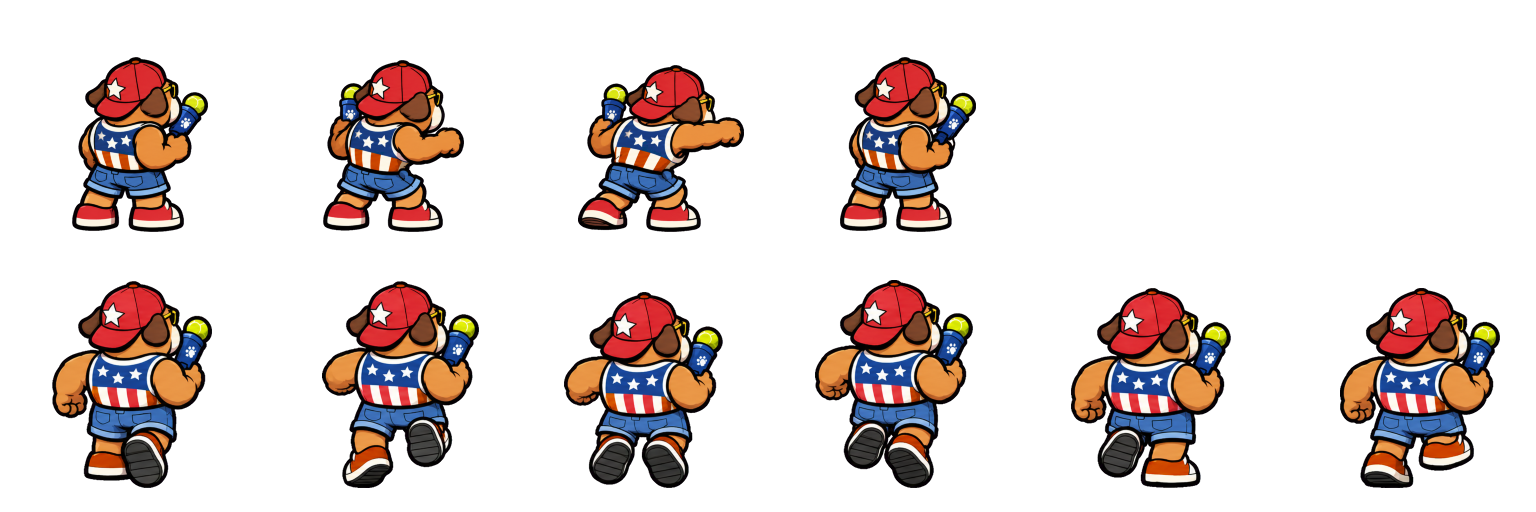
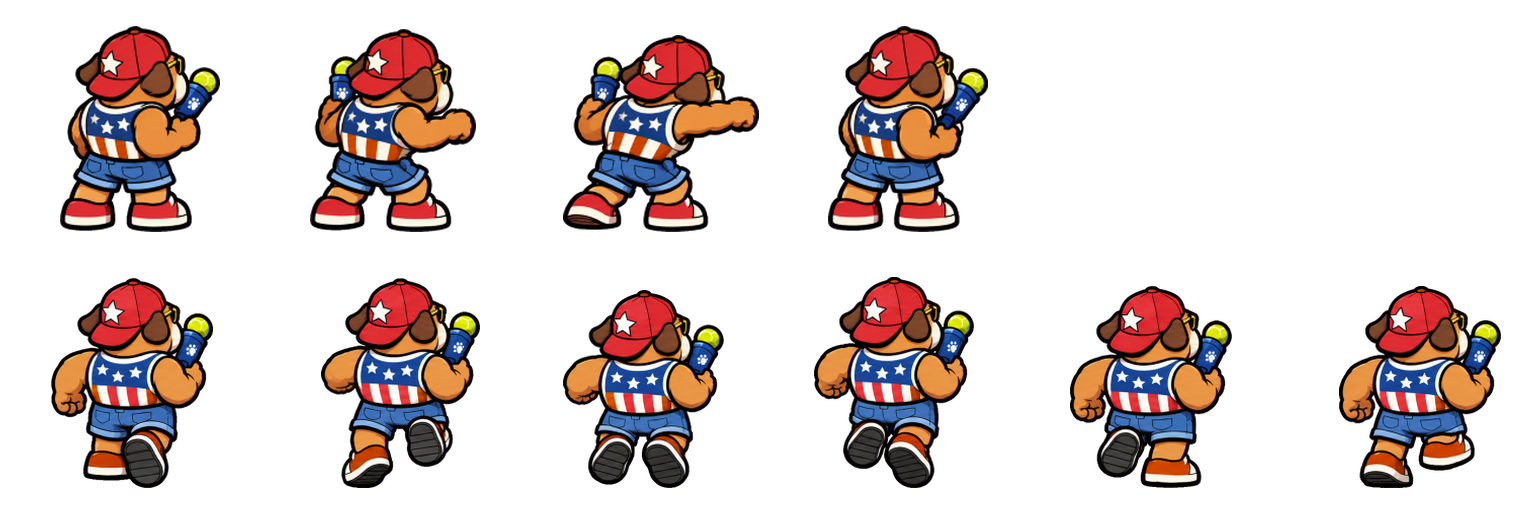
Grand Theft Doggo 骨架：槍、小刀、揮拳三種武器，三種難度，修正子彈打不到
- Q 循環切換槍／小刀／揮拳，每種武器有自己的主角動畫（空手與拿刀由 codex 畫），沒拿槍時畫面上沒有槍；動畫統一站立高度
- 簡單／普通／困難三種難度：敵人血量、傷害、射速、移動速度、子彈速度與近戰傷害
- 修正原框架的子彈判定（3D 距離比敵人腳底永遠打不到），敵人子彈同理；槍加上 12 度內自動吸附
- 近戰型敵人會貼近出拳

diff --git a/preview/grand-theft-doggo/index.html b/preview/grand-theft-doggo/index.html
@@ -192,6 +192,9 @@
     cursor: pointer; letter-spacing: 1px; box-shadow: 0 6px 24px rgba(255, 42, 133, 0.6);
   }
   .start-btn:active { transform: scale(0.96); }
+  #diff-row { display: flex; gap: 8px; margin: 0 0 12px; }
+  #diff-row button { background: rgba(255,255,255,.1); border: 2px solid rgba(255,255,255,.35); color: #fff; font-weight: 900; font-size: 15px; padding: 8px 18px; border-radius: 999px; cursor: pointer; min-height: 44px; }
+  #diff-row button.on { background: #ffc83d; color: #1a1620; border-color: #1a1620; }
 </style>
 </head>
 <body>
@@ -244,7 +247,7 @@
   <button class="action-btn" id="btn-dodge">🌀<span>DODGE</span></button>
   <button class="action-btn" id="btn-crouch">🛡<span>CROUCH</span></button>
   <button class="action-btn" id="btn-turn180">↩<span>180°</span></button>
-  <button class="action-btn" id="btn-switch">🐾<span>PAW/GUN</span></button>
+  <button class="action-btn" id="btn-switch">🔪<span>KNIFE</span></button>
   <button class="action-btn" id="btn-car">🏎<span>DRIVE</span></button>
 </div>
 
@@ -255,8 +258,9 @@
   <div id="over-msg"></div>
   <div class="controls-hint">
     <b>📱 手機：</b>左手搖桿移動、滑動畫面轉向、右側按鈕 開火／近戰、翻滾、蹲下、180° 轉身、上車。<br><b>📱 Mobile:</b> Left Thumb Move • Swipe Screen Aim • Right Arc: Fire/Paw Punch, Dodge Roll, Crouch Cover, 180° Turn &amp; Hijack.<br>
-    <b>💻 電腦：</b>點擊鎖定視角、WASD 移動、左鍵開火、空白鍵翻滾。<br><b>💻 PC:</b> Click to Lock Aim • <b>WASD</b> Move • <b>Left-Click</b> Shoot/Paw • <b>Right-Click</b> Focus • <b>Space</b> Dodge • <b>C</b> Crouch • <b>X</b> 180° • <b>Q</b> Paw/Gun • <b>E</b> Car
+    <b>💻 電腦：</b>點擊鎖定視角、WASD 移動、左鍵攻擊、空白鍵翻滾、Q 切換槍／小刀／揮拳、E 上車。<br><b>💻 PC:</b> Click to Lock Aim • <b>WASD</b> Move • <b>Left-Click</b> Shoot/Paw • <b>Right-Click</b> Focus • <b>Space</b> Dodge • <b>C</b> Crouch • <b>X</b> 180° • <b>Q</b> Gun/Knife/Paw • <b>E</b> Car
   </div>
+  <div id="diff-row"><button type="button" data-d="easy">簡單</button><button type="button" data-d="normal">普通</button><button type="button" data-d="hard">困難</button></div>
   <button class="start-btn" id="btn-play">▶ PLAY VICE PAW</button>
 </div>
 
@@ -351,6 +355,15 @@
   scene.fog = new THREE.FogExp2(0xc9b894, 0.0085);
   const camera = new THREE.PerspectiveCamera(56, window.innerWidth / window.innerHeight, 0.1, 240);
   const colliders = [];
+  // three difficulty levels: enemy health, damage, fire rate, speed, bullet speed, melee damage
+  const DIFFS = {
+    easy:   { hp: 1.6, dmg: 0.7, rate: 1.5, speed: 0.85, bspeed: 14, melee: 6 },
+    normal: { hp: 2.6, dmg: 1.0, rate: 1.0, speed: 1.0, bspeed: 18, melee: 10 },
+    hard:   { hp: 4.2, dmg: 1.5, rate: 0.6, speed: 1.25, bspeed: 23, melee: 16 }
+  };
+  let DIFF_KEY = 'normal';
+  try { const k = localStorage.getItem('proto-grand-theft-doggo-diff'); if (DIFFS[k]) DIFF_KEY = k; } catch (e) { /* ignore */ }
+  let DIFF = DIFFS[DIFF_KEY];
   let lastDt = 0.016;
 
   function loadImage(src) {
@@ -380,6 +393,7 @@
     for (const id in MAN) if (id.startsWith('characters/enemies/')) jobs.push(loadImage('assets/' + MAN[id].file).then(i => texOf(id, i)));
     jobs.push(loadImage('assets/hero/atlas_attack_run.png').then(i => texOf('heroA', i)));
     jobs.push(loadImage('assets/hero/atlas_roll_crouch.png').then(i => texOf('heroB', i)));
+    for (const w of ['knife', 'fist']) for (const [k, f] of [['heroA', 'atlas_attack_run'], ['heroB', 'atlas_roll_crouch']]) jobs.push(new Promise(res => { const im = new Image(); im.onload = () => { texOf(k + '_' + w, im); res(); }; im.onerror = () => res(); im.src = 'assets/hero/' + f + '_' + w + '.png'; }));
     await Promise.all(jobs);
   } catch (err) { btnPlayEarly.textContent = '載入失敗，請重新整理'; throw err; }
   if (!window.Toon || !window.CityBuildings || !window.CityProps) { btnPlayEarly.textContent = '模型載入失敗，請重新整理'; throw new Error('3D models missing'); }
@@ -623,15 +637,17 @@
   player.position.set(START.x, 0, START.z);
   const dogBodyGroup = new THREE.Group();      // kept so the framework's references still work
   player.add(dogBodyGroup);
-  const HERO_CELL = 3.53, HERO_FEET = 1 - 231 / 256;      // 256px cell: character is 174px tall (= 2.4u), feet at y=231
+  const HERO_CELL = 3.0, HERO_FEET = 1 - 232 / 256;       // 256px cell: every animation is normalised so the standing dog is ~205px (= 2.4u) tall, feet at y=231
   const heroSprite = makeSprite(TEX.heroA, HERO_CELL, HERO_CELL, HERO_FEET);
   dogBodyGroup.add(heroSprite);
   const heroShadow = makeShadow(1.9); player.add(heroShadow);
-  for (const k of ['heroA', 'heroB']) { TEX[k].repeat.set(1 / 6, 1 / 2); TEX[k].wrapS = TEX[k].wrapT = THREE.ClampToEdgeWrapping; TEX[k].minFilter = THREE.LinearFilter; TEX[k].generateMipmaps = false; TEX[k].needsUpdate = true; }
+  for (const k of Object.keys(TEX).filter(k => /^heroA|^heroB/.test(k))) { TEX[k].repeat.set(1 / 6, 1 / 2); TEX[k].wrapS = TEX[k].wrapT = THREE.ClampToEdgeWrapping; TEX[k].minFilter = THREE.LinearFilter; TEX[k].generateMipmaps = false; TEX[k].needsUpdate = true; }
   const blaster = { visible: true };
   const heroAnim = { run: 0, crouch: 0, breathe: 0 };
+  let heroWeapon = 'gun';
+  function setHeroWeapon(w) { heroWeapon = ['gun', 'knife', 'fist'][w] || 'gun'; }
   function setHeroFrame(atlasKey, row, col) {
-    const t = TEX[atlasKey]; heroSprite.material.map = t; t.offset.set(col / 6, 1 - (row + 1) / 2);
+    const t = (heroWeapon !== 'gun' && TEX[atlasKey + '_' + heroWeapon]) || TEX[atlasKey]; heroSprite.material.map = t; t.offset.set(col / 6, 1 - (row + 1) / 2);
   }
   function updateHero(dt, movingMag, inX) {
     heroAnim.breathe += dt;
@@ -705,7 +721,7 @@
     const hpBar = new THREE.Mesh(barGeo, new THREE.MeshBasicMaterial({ color: 0xff2a54, side: THREE.DoubleSide, depthTest: false }));
     hpBar.position.set(-0.97, 0, 0.01); hpBg.renderOrder = 10; hpBar.renderOrder = 11; hpGrp.add(hpBg, hpBar); grp.add(hpGrp);
     const f = freeSpotU(x, z, 0.6); grp.position.set(f.x, 0, f.z); scene.add(grp);
-    enemies.push({ mesh: grp, hpBar, hp: T.hp, maxHp: T.hp, type, sprite: sp, texF: TEX[fk], texB: TEX[bk], front: true, flash: 0, bobT: Math.random() * 6, shootCd: 1.5 + Math.random() * 2, patrolAngle: Math.random() * Math.PI * 2 });
+    enemies.push({ mesh: grp, hpBar, hp: T.hp * DIFF.hp, maxHp: T.hp * DIFF.hp, type, sprite: sp, texF: TEX[fk], texB: TEX[bk], front: true, flash: 0, bobT: Math.random() * 6, shootCd: 1.5 + Math.random() * 2, patrolAngle: Math.random() * Math.PI * 2 });
   }
   const _bq = new THREE.Quaternion();
   function updateEnemyBars() {
@@ -738,17 +754,18 @@
     );
     mesh.position.copy(origin);
     scene.add(mesh);
-    projectiles.push({ mesh, vel: dir.clone().multiplyScalar(isPlayer ? 36 : 18), isPlayer, life: 1.4 });
+    projectiles.push({ mesh, vel: dir.clone().multiplyScalar(isPlayer ? 36 : DIFF.bspeed), isPlayer, life: 1.4 });
   }
 
-  function spawnPawSlashVFX(pos, yaw) {
+  function spawnPawSlashVFX(pos, yaw, knife) {
     const ring = new THREE.Mesh(
       new THREE.RingGeometry(0.45, 1.15, 16, 1, -Math.PI * 0.4, Math.PI * 0.8),
-      new THREE.MeshBasicMaterial({ color: 0xffc83d, side: THREE.DoubleSide, transparent: true, opacity: 0.9 })
+      new THREE.MeshBasicMaterial({ color: knife ? 0xe8f2ff : 0xffc83d, side: THREE.DoubleSide, transparent: true, opacity: 0.9 })
     );
     ring.position.set(pos.x, 1.15, pos.z);
     ring.rotation.x = -Math.PI / 2;
     ring.rotation.z = yaw + Math.PI / 2;
+    if (knife) ring.scale.setScalar(1.5);
     scene.add(ring);
     vfxList.push({ mesh: ring, life: 0.24, maxLife: 0.24 });
   }
@@ -793,6 +810,13 @@
       setFade(p.mats, p.a);
     }
   }
+
+  // --- difficulty buttons on the start / pause screen ---
+  function applyDifficulty() { for (const e of enemies) { e.maxHp = ENEMY[e.type].hp * DIFF.hp; e.hp = e.maxHp; e.hpBar.scale.x = 1; } }
+  function refreshDiffUI() { document.querySelectorAll('#diff-row button').forEach(b => b.classList.toggle('on', b.dataset.d === DIFF_KEY)); }
+  function setDifficulty(k) { if (!DIFFS[k]) return; DIFF_KEY = k; DIFF = DIFFS[k]; try { localStorage.setItem('proto-grand-theft-doggo-diff', k); } catch (e) { /* ignore */ } applyDifficulty(); refreshDiffUI(); }
+  document.querySelectorAll('#diff-row button').forEach(b => b.addEventListener('click', ev => { ev.stopPropagation(); setDifficulty(b.dataset.d); }));
+  refreshDiffUI();
 
   // ==========================================
   // 7. GAME STATE & INPUT CONTROLS
@@ -935,12 +959,12 @@
   }
 
   function toggleWeaponMode() {
-    state.forcePawMode = !state.forcePawMode;
-    blaster.visible = !state.forcePawMode;
-    weaponLabel.textContent = state.forcePawMode
-      ? '🐾 PAW PUNCH MODE (HEAVY MELEE)'
-      : '🎾 TENNIS BLASTER (AUTO-PAW CLOSE)';
-    btnSwitch.innerHTML = state.forcePawMode ? '🎾<span>GUN</span>' : '🐾<span>PAW</span>';
+    state.weapon = ((state.weapon | 0) + 1) % 3;
+    state.forcePawMode = state.weapon !== 0;
+    blaster.visible = state.weapon === 0;
+    weaponLabel.textContent = ['🎾 TENNIS BLASTER (SHOOT)', '🔪 KNIFE (FAST MELEE)', '🐾 PAW PUNCH (HEAVY MELEE)'][state.weapon];
+    btnSwitch.innerHTML = ['🔪<span>KNIFE</span>', '🐾<span>PAW</span>', '🎾<span>GUN</span>'][state.weapon];
+    setHeroWeapon(state.weapon);
   }
 
   function toggleCar() {
@@ -980,48 +1004,32 @@
 
   function triggerAttack() {
     if (state.drivingCar || state.fireCd > 0) return;
-
-    // Check if an enemy is within close melee range for automatic Paw Punch
-    let closestEnemy = null;
-    let closestDist = 3.3;
-    for (const e of enemies) {
-      const d = e.mesh.position.distanceTo(player.position);
-      if (d < closestDist) {
-        closestDist = d;
-        closestEnemy = e;
-      }
-    }
-
-    if (state.forcePawMode || closestEnemy) {
-      // PAW PUNCH MELEE
-      state.fireCd = 0.34;
-      state.punchAnimTimer = 0.24;
-      AudioSys.play('punch');
-
-      const forward = new THREE.Vector3(-Math.sin(state.yaw), 0, -Math.cos(state.yaw));
-      // Lunge forward slightly
-      moveEntityWithCollision(player.position, forward.clone().multiplyScalar(1.15), 0.55);
-      spawnPawSlashVFX(player.position.clone().addScaledVector(forward, 1.1), state.yaw);
-
-      // Hit all enemies in front melee arc
+    const w = state.weapon | 0, knife = w === 1, fist = w === 2;
+    const forward = new THREE.Vector3(-Math.sin(state.yaw), 0, -Math.cos(state.yaw));
+    if (knife || fist) {
+      state.fireCd = knife ? 0.24 : 0.34; state.punchAnimTimer = 0.24; AudioSys.play(knife ? 'shoot' : 'punch');
+      moveEntityWithCollision(player.position, forward.clone().multiplyScalar(knife ? 1.4 : 1.15), 0.55);
+      spawnPawSlashVFX(player.position.clone().addScaledVector(forward, 1.2), state.yaw, knife);
+      const reach = knife ? 4.4 : 3.6, dmg = knife ? 48 : 64;
       for (let i = enemies.length - 1; i >= 0; i--) {
-        const e = enemies[i];
-        const diff = e.mesh.position.clone().sub(player.position);
-        const dist = diff.length();
-        if (dist < 3.4) {
-          diff.normalize();
-          if (diff.dot(forward) > 0.25 || dist < 1.6) {
-            damageEnemy(i, 60, forward.clone().multiplyScalar(6.5));
-          }
-        }
+        const e = enemies[i], diff = e.mesh.position.clone().sub(player.position).setY(0), dist = diff.length();
+        if (dist < reach) { diff.normalize(); if (diff.dot(forward) > (knife ? 0.05 : 0.25) || dist < 1.6) damageEnemy(i, dmg, forward.clone().multiplyScalar(knife ? 5 : 6.5)); }
       }
     } else {
-      // TENNIS BALL BLASTER TOWARD DEAD-CENTER CROSSHAIR
-      state.fireCd = 0.18;
-      AudioSys.play('shoot');
+      state.fireCd = 0.2; AudioSys.play('shoot');
       const targetPt = getCenterCrosshairTarget();
       const muzzlePos = player.position.clone().add(new THREE.Vector3(0, state.isCrouching ? 0.78 : 1.15, 0));
-      const shotDir = targetPt.sub(muzzlePos).normalize();
+      let shotDir = targetPt.sub(muzzlePos).normalize();
+      // aim assist: an enemy within ~12 degrees of the shot line pulls the shot onto itself
+      const flat = new THREE.Vector3(shotDir.x, 0, shotDir.z).normalize();
+      let best = null, bestAng = 0.21;
+      for (const e of enemies) {
+        const t = new THREE.Vector3(e.mesh.position.x - muzzlePos.x, 0, e.mesh.position.z - muzzlePos.z), dd = t.length();
+        if (dd < 1 || dd > 42) continue;
+        const ang = Math.acos(Math.min(1, flat.dot(t.normalize())));
+        if (ang < bestAng) { bestAng = ang; best = e; }
+      }
+      if (best) shotDir = new THREE.Vector3(best.mesh.position.x - muzzlePos.x, 1.0 - muzzlePos.y, best.mesh.position.z - muzzlePos.z).normalize();
       spawnProjectile(muzzlePos, shotDir, true);
     }
   }
@@ -1390,13 +1398,18 @@
 
       if (dist < 24) {
         e.mesh.rotation.y = Math.atan2(toPlayer.x, toPlayer.z);
-        if (dist > 5.5) {
+        if (dist > (e.type === 'shooter' ? 7 : 1.9)) {
           toPlayer.normalize();
-          moveEntityWithCollision(e.mesh.position, toPlayer.multiplyScalar(3.4 * dt), 0.5);
+          moveEntityWithCollision(e.mesh.position, toPlayer.multiplyScalar(3.4 * DIFF.speed * dt), 0.5);
+        }
+        e.melCd = (e.melCd || 0) - dt;
+        if (dist < 2.4 && e.melCd <= 0 && state.dodgeTimer <= 0 && !state.drivingCar && state.hp > 0) {
+          e.melCd = 1.1; state.hp -= DIFF.melee * (e.type === 'boss' ? 1.6 : e.type === 'brawler' ? 1.3 : 1) * (state.isCrouching ? 0.5 : 1);
+          AudioSys.play('hit'); updateHUD(); if (state.hp <= 0) setPaused(true);
         }
         e.shootCd -= dt;
         if (e.shootCd <= 0 && dist < 19) {
-          e.shootCd = 2.1 + Math.random() * 1.3;
+          e.shootCd = (2.1 + Math.random() * 1.3) * DIFF.rate;
           const aimDir = player.position.clone().sub(e.mesh.position).setY(0).normalize();
           spawnProjectile(e.mesh.position.clone().add(new THREE.Vector3(0, 1.2, 0)), aimDir, false);
         }
@@ -1417,15 +1430,15 @@
       let hit = p.life <= 0;
       if (!hit && p.isPlayer) {
         for (let j = enemies.length - 1; j >= 0; j--) {
-          if (enemies[j].mesh.position.distanceTo(p.mesh.position) < 1.15) {
-            damageEnemy(j, 35, p.vel.clone().normalize().multiplyScalar(3));
+          if (Math.hypot(enemies[j].mesh.position.x - p.mesh.position.x, enemies[j].mesh.position.z - p.mesh.position.z) < 1.25 && p.mesh.position.y < 3.2) {
+            damageEnemy(j, 32, p.vel.clone().normalize().multiplyScalar(3));
             hit = true;
             break;
           }
         }
       } else if (!hit && !p.isPlayer) {
-        if (player.position.distanceTo(p.mesh.position) < 0.95 && state.dodgeTimer <= 0 && !state.drivingCar) {
-          state.hp -= state.isCrouching ? 4 : 9;
+        if (Math.hypot(player.position.x - p.mesh.position.x, player.position.z - p.mesh.position.z) < 0.95 && state.dodgeTimer <= 0 && !state.drivingCar) {
+          state.hp -= (state.isCrouching ? 0.45 : 1) * 9 * DIFF.dmg;
           AudioSys.play('hit');
           updateHUD();
           hit = true;
@@ -1498,7 +1511,7 @@
   });
 
   btnPlay.disabled = false; btnPlay.textContent = '▶ PLAY VICE PAW';
-  window.__doggo = { state, player, camera, enemies, cars, blocks, scene, moveBlockedAt, bulletBlocked, colliders };
+  window.__doggo = { state, player, camera, enemies, cars, blocks, scene, moveBlockedAt, bulletBlocked, colliders, projectiles, triggerAttack, setDifficulty };
   updateHUD();
   animate();
 })();

diff --git a/preview/grand-theft-doggo/assets/NOTES.md b/preview/grand-theft-doggo/assets/NOTES.md
@@ -51,3 +51,6 @@
 - 之後想換成美術做的 GLB，只要在 `CityBuildings`／`CityProps` 同名函式回傳載入後的 Group。
 - 邊緣空地：地圖左右兩側與頂邊、介於外圍道路與圍牆之間的草地條（寬 4～6 格）各放一棟建築（朝向場內，依空地大小縮放，整塊不可進入）；太小的空地用綠籬排滿。外圍牆只用實心的紙板牆、塗鴉牆、磚牆（不再用可透視的鐵網），每條通到牆邊的路用柵門封住。
 - 2026-11-24 修正：近距離的小物（長椅、販賣機、路障、盆栽等）擋在鏡頭與主角之間時也會淡化；停著的車子加上碰撞，主角與敵人不會穿過，子彈打到建築、小物、車子會消失；敵人血條改成永遠正對鏡頭、從左邊開始縮短，尺寸放大一倍（原本在敵人轉身後會被壓成斜斜的一小截，看起來像只剩一點血）；淡化中的模型隱藏外框，避免疊出灰影。
+- 2026-11-24 三種武器與難度：按 Q 循環「槍 → 小刀 → 揮拳」。槍只射擊（有 12 度內自動吸附敵人）；小刀攻擊快、傷害 48、範圍 4.4；揮拳傷害 64、範圍 3.6、較慢。每種武器有自己的主角動畫（`assets/hero/atlas_attack_run[_knife|_fist].png`、`atlas_roll_crouch[_knife|_fist].png`，由 sprite-gen 經 codex 畫成），沒拿槍時畫面上也沒有槍。所有動畫已統一站立高度（約 205px＝2.4 單位）。
+- 難度（簡單／普通／困難，預設普通，存在 localStorage `proto-grand-theft-doggo-diff`）：敵人血量 ×1.6／2.6／4.2、傷害 ×0.7／1／1.5、射速、移動速度、子彈速度與近戰傷害依難度變化；壯漢與頭目、普通小混混會貼近出拳。
+- 修正：原框架的子彈判定拿「子彈 3D 位置」對「敵人腳底」比距離，永遠 ≥ 1.15 而打不到；敵人子彈對主角同理，主角因此幾乎不扣血。改為只比地面距離再加高度範圍。
